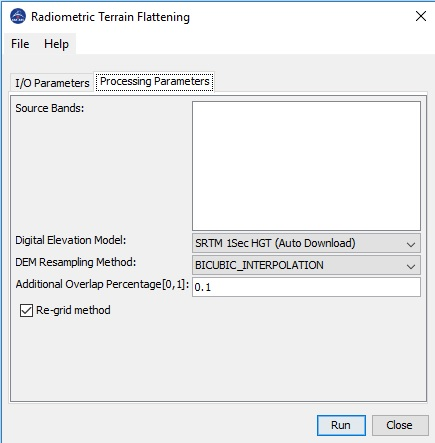
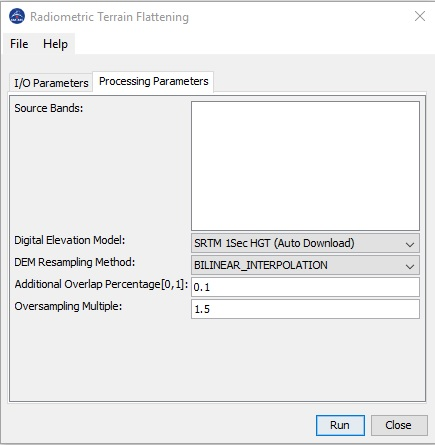
Updated

Changed region(s): [[0.0, 0.0, 1.0, 1.0], [0.0897, 0.088, 0.1793, 0.1174]]

diff --git a/s1tbx-op-sar-processing-ui/src/main/resources/org/esa/s1tbx/sar/docs/operators/TerrainFlatteningOp.html b/s1tbx-op-sar-processing-ui/src/main/resources/org/esa/s1tbx/sar/docs/operators/TerrainFlatteningOp.html
@@ -3,7 +3,6 @@
 
 
     <link rel="stylesheet" href="../style.css"></head>
-
 <body>
 <table class="header">
     <tbody>
@@ -16,15 +15,20 @@
 </table>
 <h3>Terrain Flattening Operator</h3>When land cover classification is
 applied to terrain that is not flat, inaccurate classification result
-is produced. This is because that terrain variations&nbsp; affect not
+is produced. This is because that terrain variations&nbsp;affect not
 only the position of a target on the Earth's surface, but also the
 brightness of the radar return. Without treatment, the radiometric
 biases caused by terrain variations are introduced into the coherency
-and covariance mstrices. It is often seen that the classification
-result mimic the radiometry rathen than the actual land cover. This
+and covariance matrices. It is often seen that the classification
+result mimic the radiometry rather than the actual land cover. This
 operator removes the radiometric variability associated with topography
 using the terrain flattening method proposed by Small [1] while leaving
-the radiometric variability associated with land cover.<br>
+the radiometric variability associated with land cover.<br><h4>Input and Output</h4><ul><li>The
+input to this operator should be calibrated beta0. For polarimetric SAR
+product, it should be in T3, C3, C2 matrix format.&nbsp;</li><li>The
+output of this operator is terrain flattened gamma0. For polarimetric
+SAR product, the output is terrain flattened coherency or covariance
+matrices in T3, C3 or C2 format. </li></ul>
 <h4>Parameters Used</h4>&nbsp;&nbsp; The following processing parameters are used for this operator:<br>
 <ul>
     <li>Source Bands: source product bands. User can select one or
@@ -36,16 +40,19 @@ the radiometric variability associated with land cover.<br>
     <li>DEM resampling Method: resampling method used in getting elevation from DEM.</li><li>Additional
 Overlap Percentage: To perform terrain flattening to a given tile,
 pixels from adjacent tiles are generally needed due to the topography
-in the image area. Therefore, the overlap percentage is automatically
+in the image area. The overlap percentage is automatically
 computed using the DEM. However, if the computed overlap is not enough,
 then tiling effect can be observed in the terrain flattened image. In
-this case, user can increase the Additional Overlap Percentage. &nbsp;</li><li>Re-grid
-method: Currently two methods for defining the latitude/longitude grid
-are supported, i.e. regrid and non-regrid methods. With the regrid
-method, the terrain flattened image has better image quality, but it
-takes longer time to processing. </li>
+this case, user can increase the Additional Overlap Percentage. &nbsp;</li><li>Oversampling
+Multiple: The Terrain Flattening algorithm requires that the DEM
+resolution is higher than the image resolution. Therefore, the DEM is
+generally oversampled by a factor&nbsp;automatically computed based on
+the DEM and image resolution. However, if the automatically computed
+oversampling factor is not large enough, then artefacts can be observed
+in the terrain flattened image. In this case user can increase the
+oversampling factor by multiplying it with this coefficient. </li>
 </ul>
-<img style="width: 450px; height: 450px;" alt="" src="images/TerrainFlatteningOp.jpg"><br>
+<img style="width: 435px; height: 445px;" alt="" src="images/TerrainFlatteningOp.jpg"><br>
 
 <p> Reference:&nbsp;</p>
 
